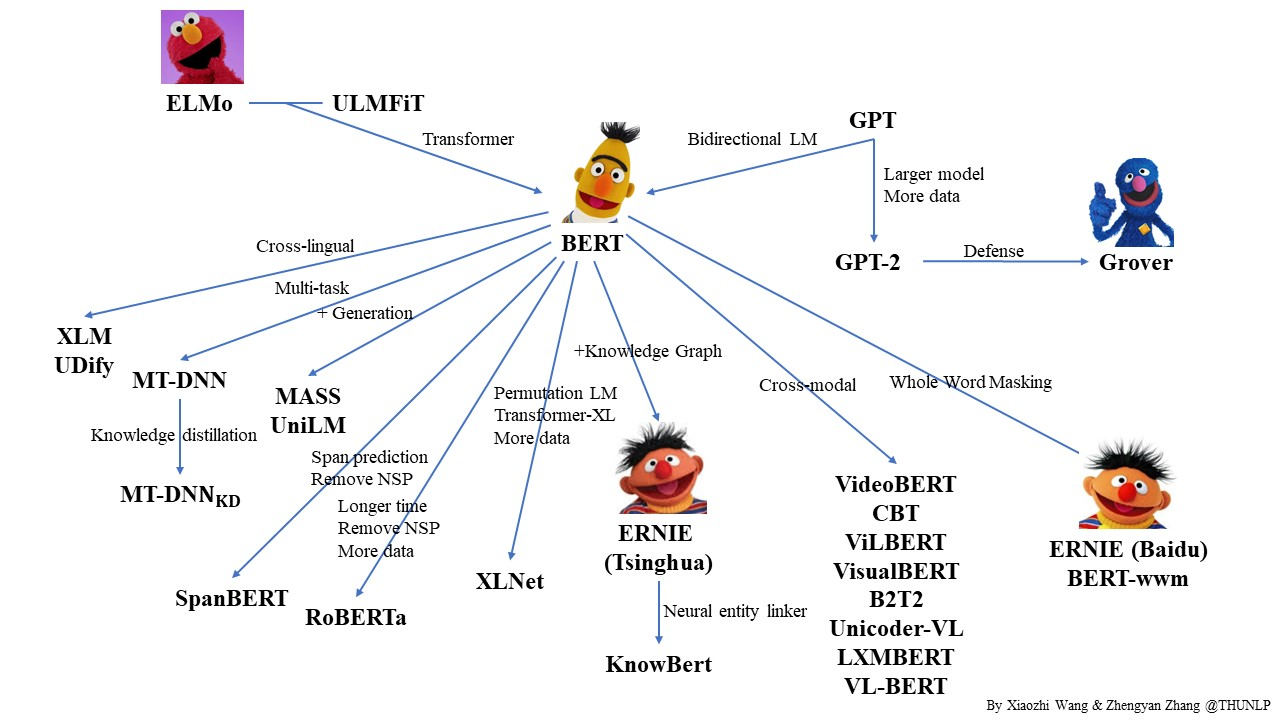
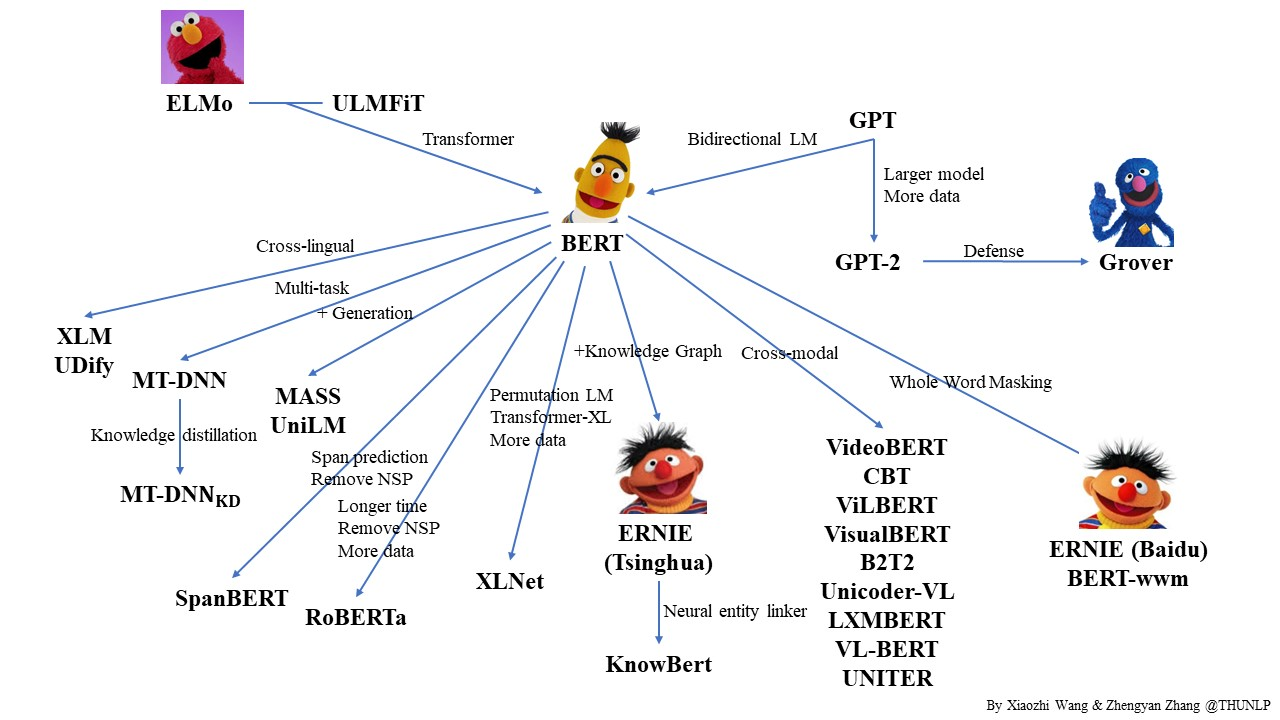
update UNITER & HUBERT

diff --git a/README.md b/README.md
@@ -43,6 +43,8 @@ We also released [OpenCLap](https://github.com/thunlp/OpenCLaP), an open-source 
 26. **ERNIE 2.0: A Continual Pre-training Framework for Language Understanding**. *Yu Sun, Shuohuan Wang, Yukun Li, Shikun Feng, Hao Tian, Hua Wu, Haifeng Wang*. Preprint. [[pdf](https://arxiv.org/pdf/1907.12412v1.pdf)] [[code](https://github.com/PaddlePaddle/ERNIE/blob/develop/README.md)] 
 27. **75 Languages, 1 Model: Parsing Universal Dependencies Universally**. *Dan Kondratyuk, Milan Straka*. EMNLP2019. [[pdf](https://arxiv.org/pdf/1904.02099.pdf)] [[code & model](https://github.com/hyperparticle/udify)] (**UDify**)
 28. **Pre-Training with Whole Word Masking for Chinese BERT**. *Yiming Cui, Wanxiang Che, Ting Liu, Bing Qin, Ziqing Yang, Shijin Wang, Guoping Hu*. Preprint. [[pdf](https://arxiv.org/pdf/1906.08101.pdf)] [[code & model](https://github.com/ymcui/Chinese-BERT-wwm/blob/master/README_EN.md)] (**Chinese-BERT-wwm**)
+29. **UNITER: Learning UNiversal Image-TExt Representations**. *Yen-Chun Chen, Linjie Li, Licheng Yu, Ahmed El Kholy, Faisal Ahmed, Zhe Gan, Yu Cheng, Jingjing Liu*. Preprint. [[pdf](https://arxiv.org/pdf/1909.11740.pdf)]
+30. **HUBERT Untangles BERT to Improve Transfer across NLP Tasks**. *Anonymous authors*. [[pdf](https://openreview.net/pdf?id=HJxnM1rFvr)]
 
 ### Knowledge Distillation & Model Compression
 
